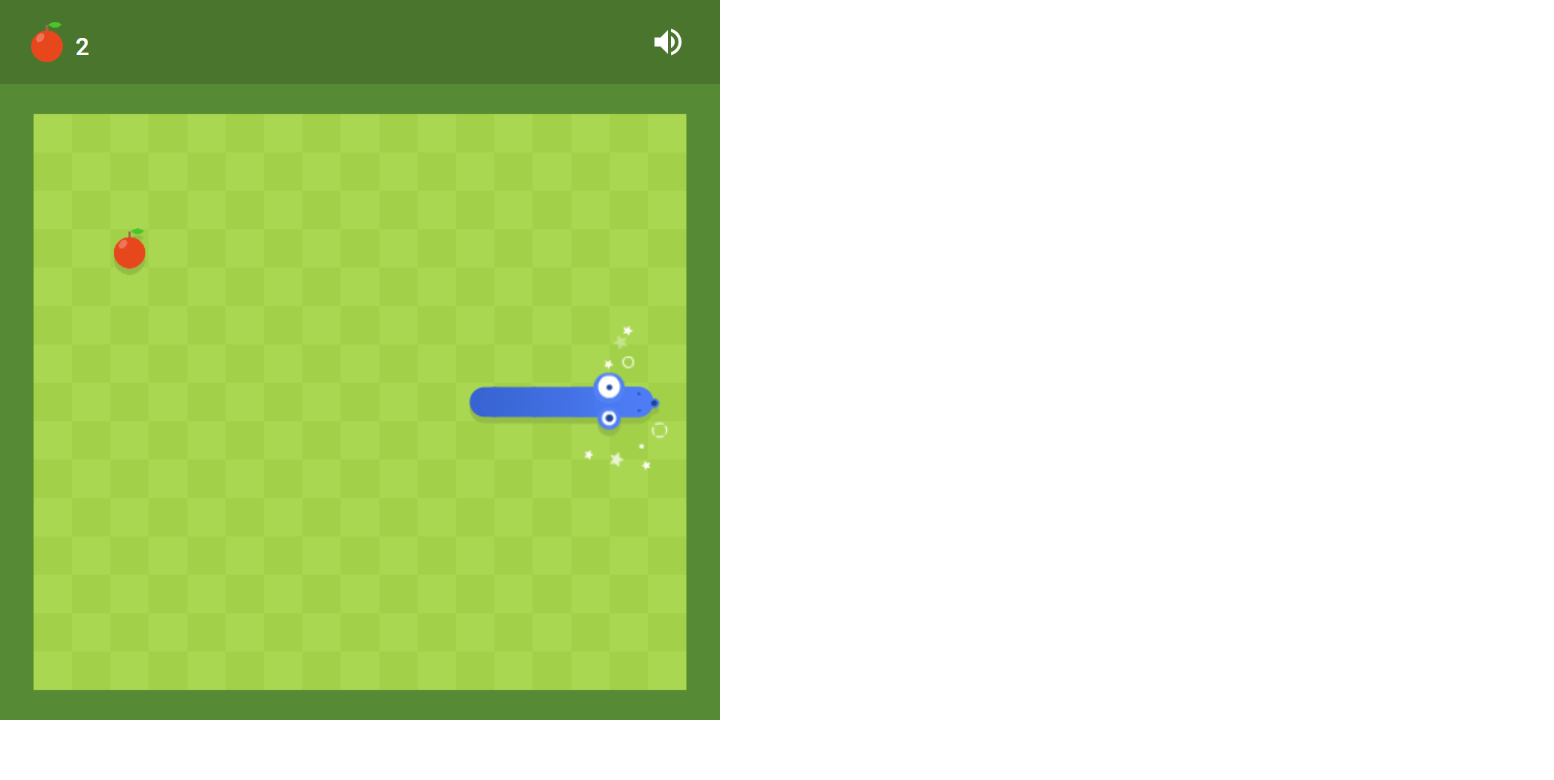
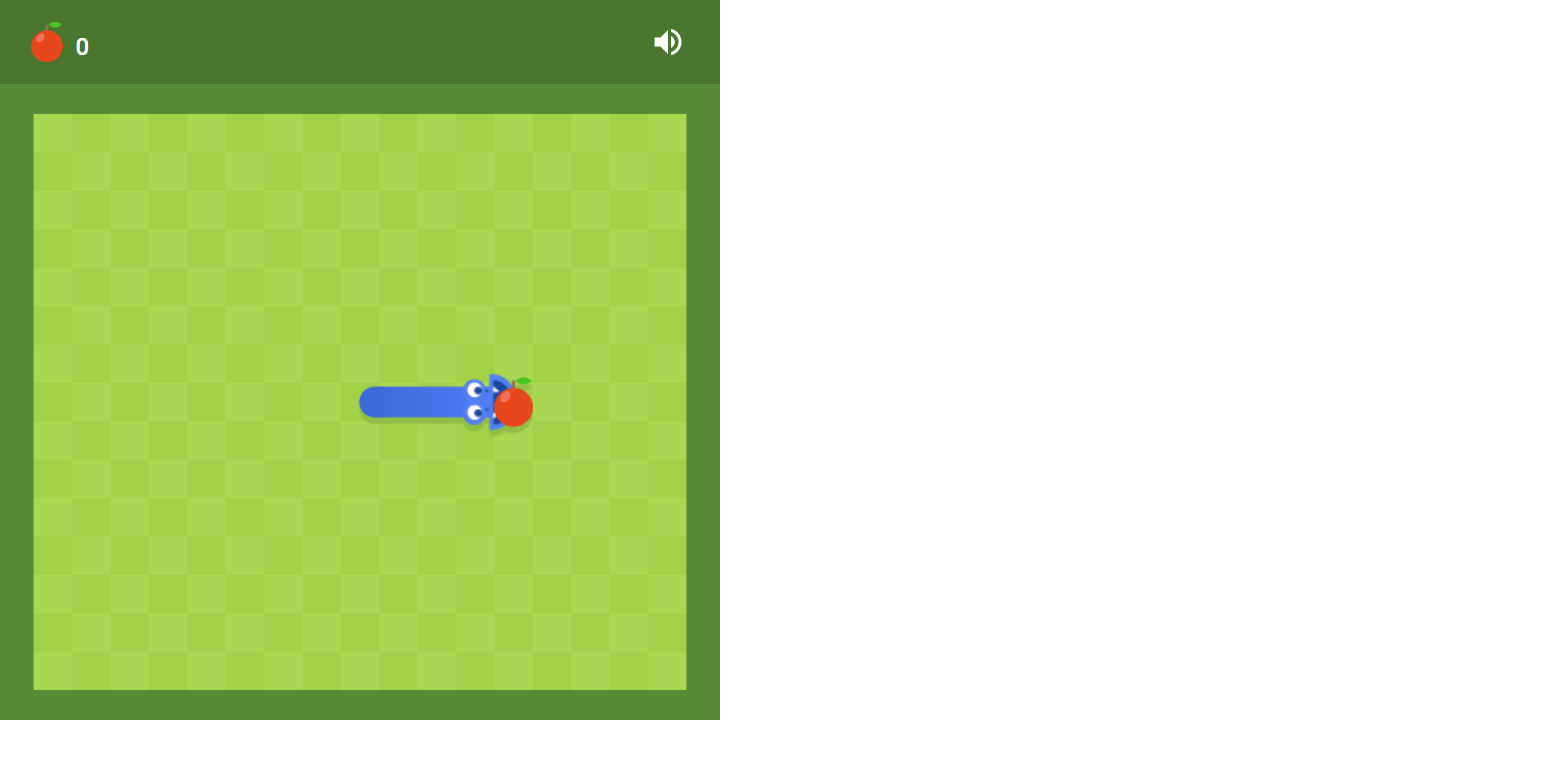
0503

Changed region(s): [[0.2162, 0.4615, 0.4324, 0.5538], [0.0618, 0.2769, 0.0927, 0.3692], [0.3707, 0.5846, 0.4015, 0.6154]]

diff --git a/function.py b/function.py
@@ -1,30 +1,47 @@
+from queue import Queue
+
 def find_path(matrix, start, end):
-    stack = [start]
-    visited = {start: True}
-    instructions = {start: None}
+    # Créer une file vide et ajouter le point de départ
+    q = Queue()
+    q.put(start)
 
-    while stack:
-        current = stack.pop()
+    # Créer un dictionnaire pour enregistrer le chemin parcouru
+    path = {start: None}
+
+    while not q.empty():
+        current = q.get()
+
+        # Si on a atteint le point final, construire la liste de mouvements
         if current == end:
-            path = []
+            moves = []
             while current != start:
-                path.append(instructions[current])
-                current = tuple(map(lambda x, y: x - y, current, instructions[current]))
-            return list(reversed(path))
+                parent = path[current]
+                if parent[0] < current[0]:
+                    moves.append('bas')
+                elif parent[0] > current[0]:
+                    moves.append('haut')
+                elif parent[1] < current[1]:
+                    moves.append('droite')
+                elif parent[1] > current[1]:
+                    moves.append('gauche')
+                current = parent
+            return moves[::-1]
 
+        # Visiter les voisins du point actuel
         for neighbor in get_neighbors(matrix, current):
-            if neighbor not in visited:
-                stack.append(neighbor)
-                visited[neighbor] = True
-                instructions[neighbor] = tuple(map(lambda x, y: x - y, neighbor, current))
+            if neighbor not in path:
+                q.put(neighbor)
+                path[neighbor] = current
 
+    # Si on ne peut pas trouver de chemin, retourner None
     return None
 
-def get_neighbors(matrix, coord):
-    rows, cols = len(matrix), len(matrix[0])
+def get_neighbors(matrix, point):
+    # Récupérer les coordonnées des voisins valides
     neighbors = []
-    for i, j in [(0, 1), (1, 0), (0, -1), (-1, 0)]:
-        row, col = coord[0] + i, coord[1] + j
-        if 0 <= row < rows and 0 <= col < cols and matrix[row][col] != '#':
-            neighbors.append((row, col))
+    rows, cols = len(matrix), len(matrix[0])
+    row, col = point
+    for r, c in [(row-1, col), (row+1, col), (row, col-1), (row, col+1)]:
+        if 0 <= r < rows and 0 <= c < cols and matrix[r][c] != 'X':
+            neighbors.append((r, c))
     return neighbors

diff --git a/thefrenchsnake.py b/thefrenchsnake.py
@@ -1,6 +1,7 @@
 from selenium import webdriver
 from PIL import Image
 from io import BytesIO
+from function import*
 import numpy as np
 
 
@@ -16,6 +17,8 @@ from selenium.webdriver.common.action_chains import ActionChains
 from selenium.webdriver.support.ui import WebDriverWait
 from selenium.webdriver.support import expected_conditions as EC
 
+
+dict = {"haut":Keys.UP,"bas":Keys.DOWN,"gauche":Keys.LEFT,"droite":Keys.RIGHT}
 # Créer une instance du navigateur Chrome
 driver = webdriver.Chrome()
 
@@ -36,7 +39,9 @@ time.sleep(2)
 
 actions.send_keys(Keys.RIGHT).perform()
 
-time.sleep(2)
+time.sleep(1)
+
+
 # Remplir un formulaire
 driver.get_screenshot_as_file("screenshot.png")
 
@@ -47,23 +52,21 @@ time.sleep(1)
 # Ouvrir l'image
 image = Image.open("screenshot.png")
 
+
 width, height = image.size
 # Recadrer l'image
 image = image.crop((width*0.05, height*0.15, width*0.45, height*0.9))
+
 
 # Pixeliser l'image
 pixel_size = 35
 image = image.resize((image.width // pixel_size, image.height // pixel_size), Image.NEAREST)
 image = image.resize((image.width, image.height), Image.NEAREST)
 
-# Enregistrer l'image pixelisée
-
 
 # Convertir l'image en niveau de gris
 
 image.save("pixelated_image.png")
-
-
 
 
 # Convertir l'image en un tableau NumPy
@@ -85,6 +88,15 @@ pos_pomme_i = np.where(red_channel == max_vals[0])
 pos_pomme = list(zip(pos_pomme_i[0], pos_pomme_i[1]))
 pos_tete_i = np.where(red_channel == max_vals[1])
 pos_tete = list(zip(pos_tete_i[0], pos_tete_i[1]))
+
+
+print(pos_tete,pos_pomme)
+list = find_path(red_channel,pos_tete[0],pos_pomme[0])
+print(list)
+for elt in list:
+    actions.send_keys(dict[elt]).perform()
+    time.sleep(2)
+
 
 
 driver.close()
